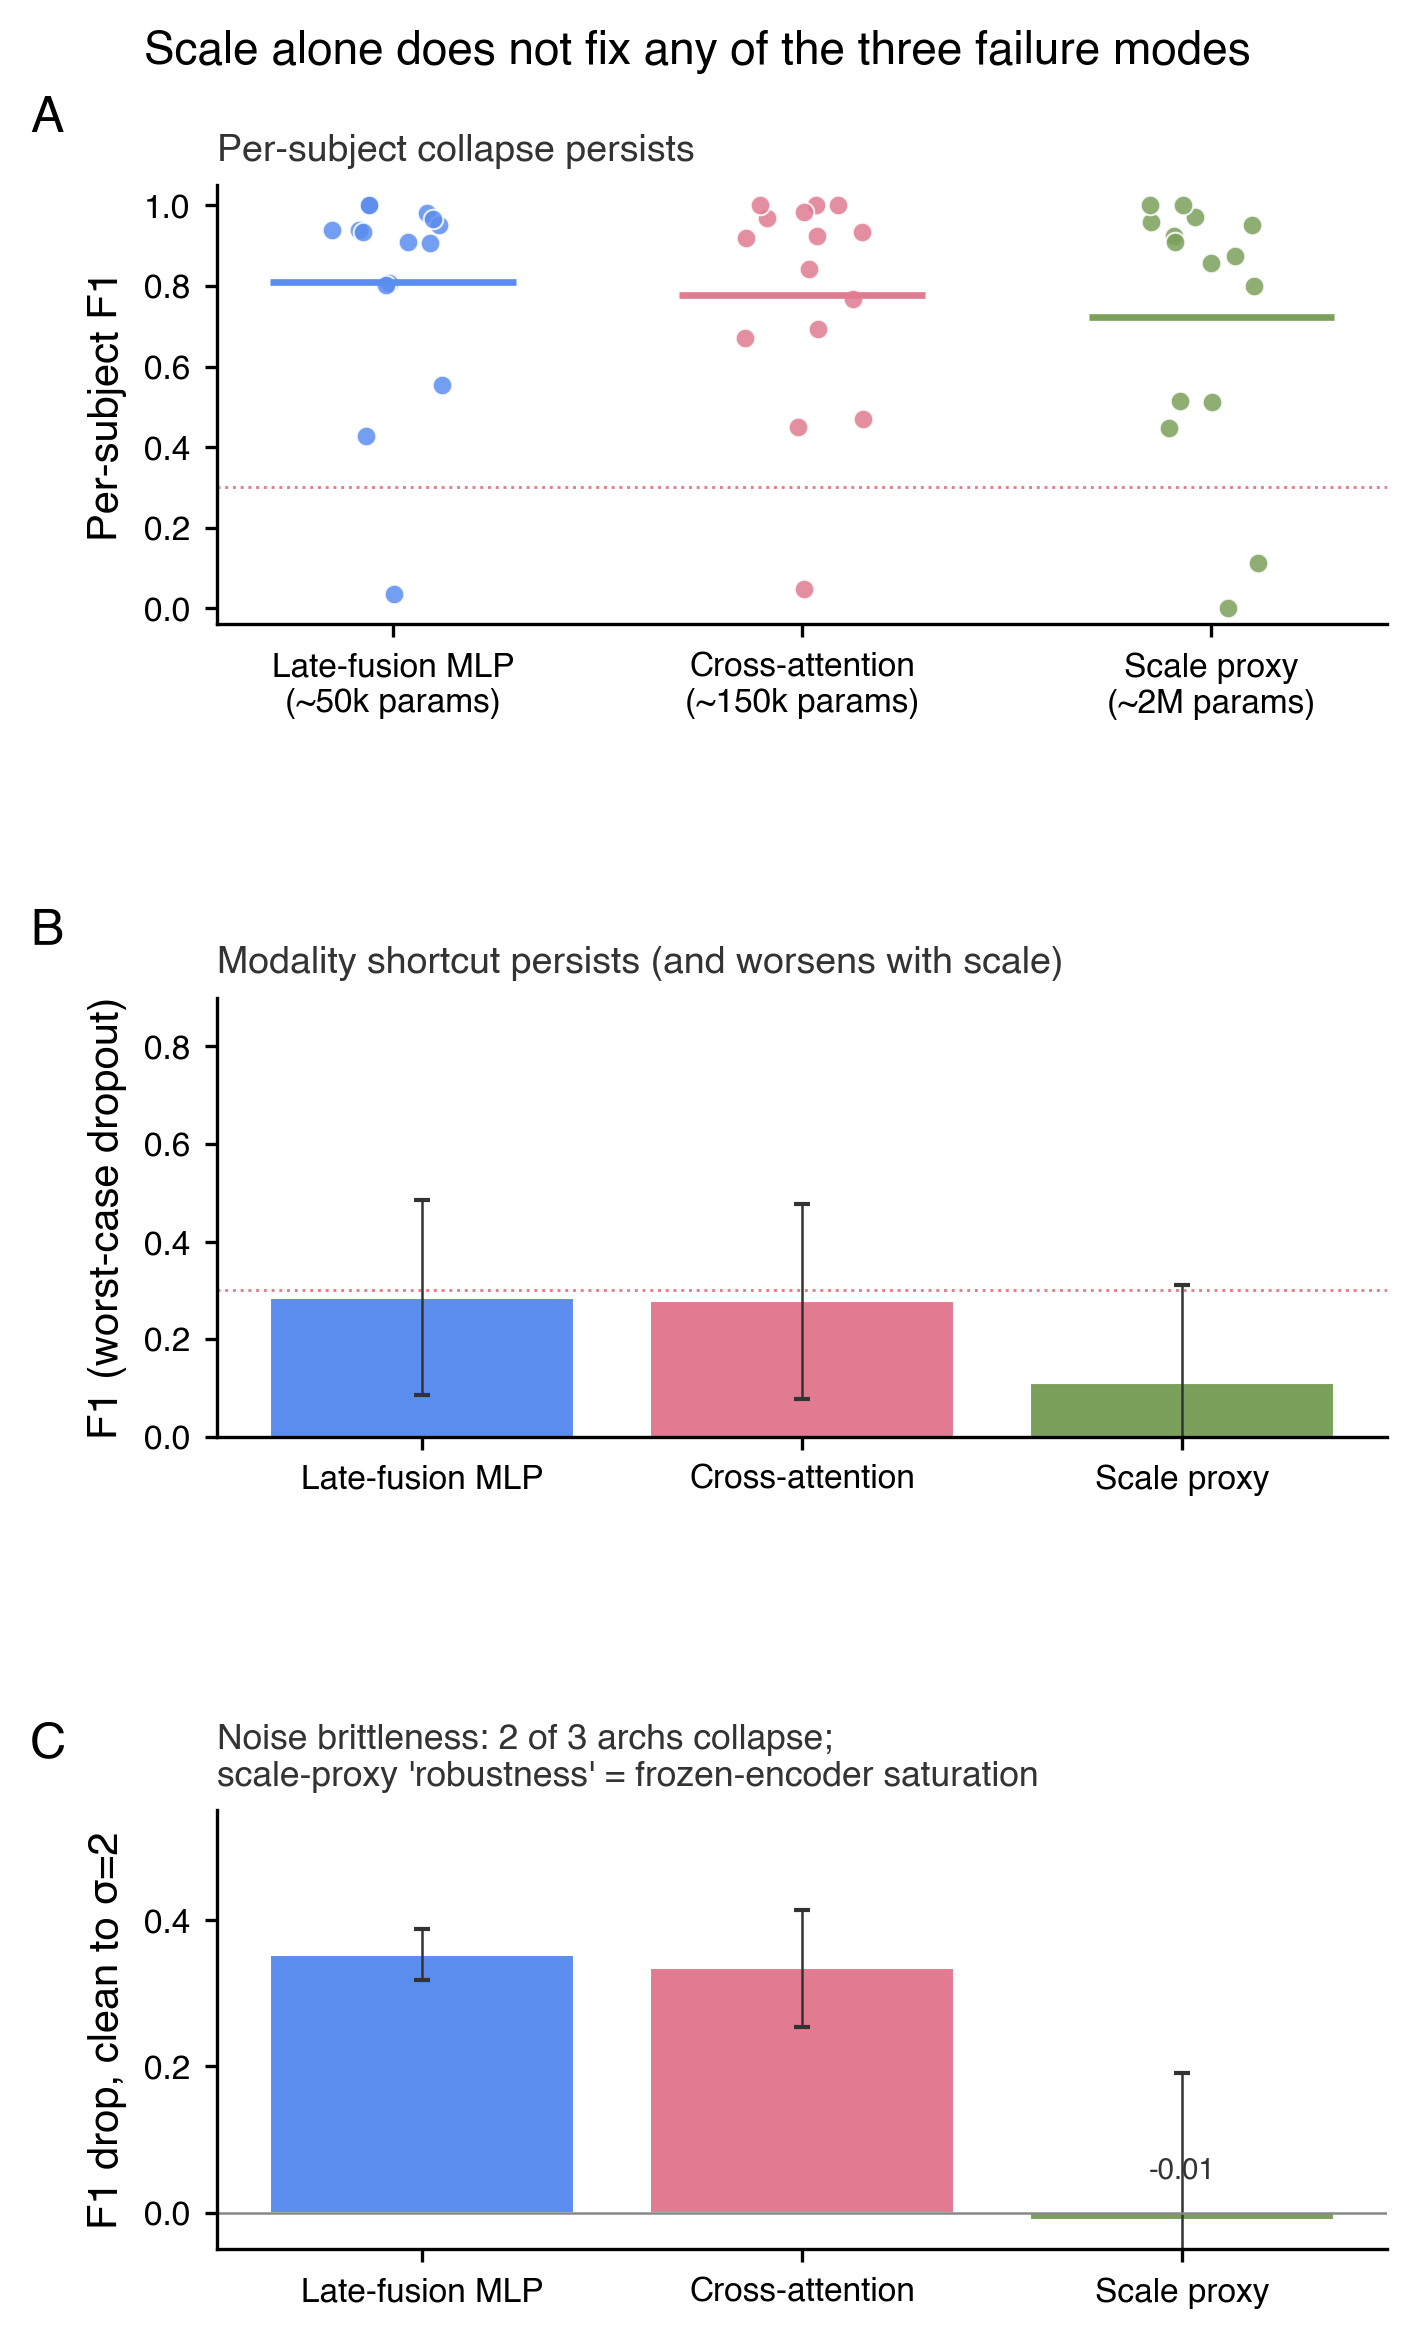
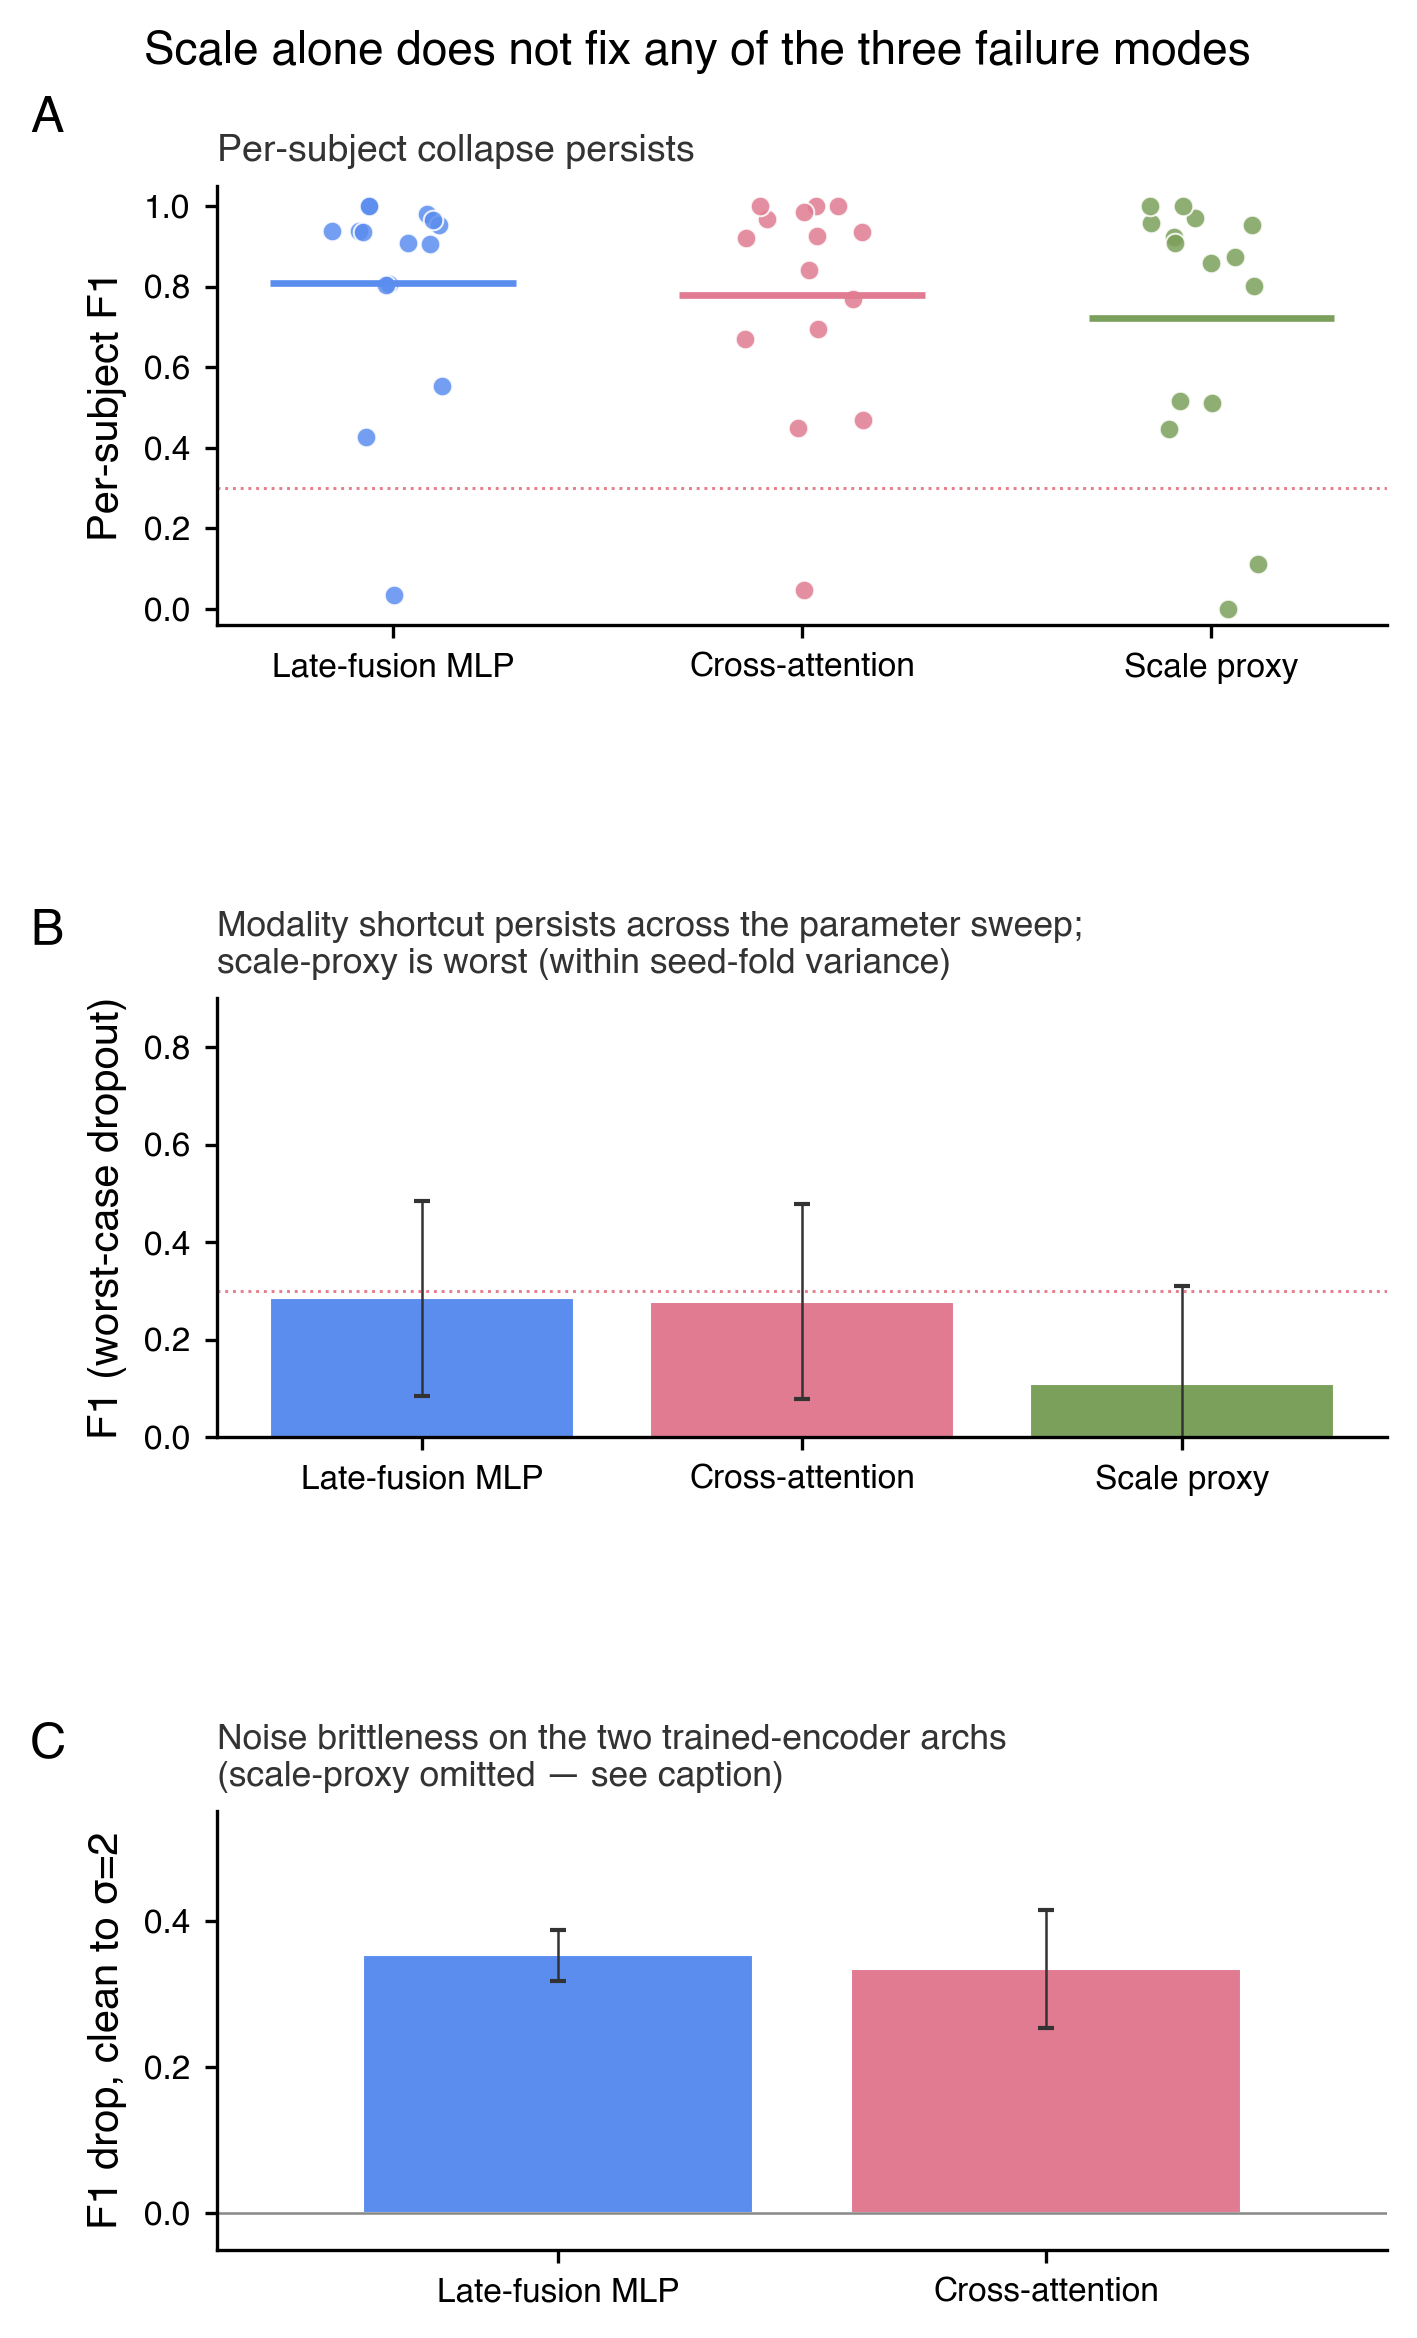
fix(figs): apply 8 reviewer-aggregated fixes
Fig 3 Panel A:
- removed Spearman/Pearson on-panel annotation (caption-only now)
- removed S2 and S4 labels (don't serve cluster story)
- attached cluster claim 'S14, S17: fragile across all 3 failure modes'
  directly to highlighted rectangle with curved leader line
- panel now leads with the cluster, not the weak aggregate correlation

Fig 2 Panel A:
- replaced per-architecture S17 callout with single cross-arch annotation
  in left margin: 'S17 collapses across all three architectures (F1 ≈ 0.04)'
  with one short leader line to the leftmost S17 point
- relabelled bottom dashed line 'always-predict-non-stress F1 = 0' (was
  ambiguous 'majority-class F1 = 0')

Fig 2 Panel C:
- removed the 'collapse 0.3' line and label (chance F1 at 30% positive
  prevalence is ≈0.46 not 0.3; the threshold was misleading)

Fig 2 caption (B) and (C):
- specify that bars/bands aggregate across 3 seeds × 15 folds and that
  per-subject and per-seed contributions are pooled, not separated

Fig 4 Panel B title:
- 'Modality shortcut persists across the parameter sweep; scale-proxy is
  worst (within seed-fold variance)' — removes 'worsens with scale'

Fig 4 Panel C:
- scale-proxy bar dropped entirely; panel now shows only the two
  trained-encoder architectures
- title and caption explain the omission (frozen-encoder saturation
  artefact); raw scale-proxy number reported in caption + decisions/d05

Fig 4 x-axis labels:
- single-line 'Late-fusion MLP', 'Cross-attention', 'Scale proxy' across
[…]

diff --git a/src/figures/fig2_diagnostic.py b/src/figures/fig2_diagnostic.py
@@ -50,11 +50,8 @@ def panel_A(ax, per_subj, overall, status):
                   color=PALETTE[m], lw=2.0, zorder=4)
 
     ax.axhline(0.0, color=PALETTE["baseline"], linestyle="--", lw=0.8, alpha=0.5)
-    ax.text(-0.55, 0.01, "majority-class F1 = 0",
+    ax.text(-0.55, 0.01, "always-predict-non-stress F1 = 0",
             fontsize=7, color=PALETTE["baseline"], va="bottom", ha="left")
-    ax.axhline(0.3, color=PALETTE["stress"], linestyle=":", lw=0.8, alpha=0.5)
-    ax.text(-0.55, 0.31, "collapse threshold (0.3)",
-            fontsize=7, color=PALETTE["stress"], va="bottom", ha="left")
 
     ax.set_xticks(x_centers)
     ax.set_xticklabels([MODEL_LABELS[m] for m in MODELS], rotation=10, ha="right")
@@ -62,20 +59,37 @@ def panel_A(ax, per_subj, overall, status):
     ax.set_ylim(0.0, 1.05)
     ax.set_xlim(-0.7, len(MODELS) - 0.4)
 
-    # Annotate worst subject in left margin so callout doesn't overlap data.
+    # Annotate the universal collapse subject — single label, three thin lines
+    # to all three architectures' S17 points so the cross-arch story is explicit.
+    target_subj = None
+    targets = []  # (x_data, y_data) per architecture
     for m_idx, m in enumerate(MODELS):
         valid = [(s, per_subj[m][s]["f1_mean"]) for s in SUBJECTS
                  if per_subj[m][s]["f1_mean"] is not None]
         if not valid:
             continue
-        worst_subj, worst_f1 = min(valid, key=lambda p: p[1])
-        ax.annotate(f"{worst_subj} F1={worst_f1:.2f}",
-                    xy=(m_idx, max(worst_f1, 0.005)),
-                    xytext=(m_idx + 0.50, 0.18),
-                    fontsize=7.5, color=PALETTE["annotation"],
-                    arrowprops=dict(arrowstyle="-", color=PALETTE["annotation"],
-                                    lw=0.5, connectionstyle="arc3,rad=-0.2"))
-        break
+        s_subj, s_f1 = min(valid, key=lambda p: p[1])
+        if target_subj is None:
+            target_subj = s_subj
+        if s_subj == target_subj:
+            targets.append((m_idx, max(s_f1, 0.005)))
+    if target_subj is not None and targets:
+        # Anchor callout in the left margin, draw a single short line to the
+        # leftmost S17 point. Caption explains the cross-arch persistence.
+        text_xy = (-0.62, 0.18)
+        ax.text(text_xy[0], text_xy[1],
+                f"{target_subj} collapses across\n"
+                f"all three architectures\n"
+                f"(F1 ≈ {targets[0][1]:.2f})",
+                fontsize=7.5, color=PALETTE["annotation"],
+                ha="left", va="bottom", fontweight="bold")
+        first_tx, first_ty = targets[0]
+        ax.annotate("", xy=(first_tx - 0.05, first_ty + 0.02),
+                    xytext=(text_xy[0] + 0.30, text_xy[1] + 0.02),
+                    arrowprops=dict(arrowstyle="-",
+                                    color=PALETTE["annotation"],
+                                    lw=0.5, alpha=0.7,
+                                    connectionstyle="arc3,rad=-0.2"))
 
 
 def panel_B(ax, exp2, status):
@@ -126,9 +140,6 @@ def panel_C(ax, exp3, status):
         ax.fill_between(sigmas, np.clip(means - stds, 0, 1),
                         np.clip(means + stds, 0, 1),
                         color=PALETTE[m], alpha=0.15)
-    ax.axhline(0.3, color=PALETTE["stress"], linestyle=":", lw=0.8, alpha=0.5)
-    ax.text(sigmas[0], 0.31, "collapse 0.3",
-            fontsize=7, color=PALETTE["stress"], ha="left", va="bottom")
     ax.set_xlabel("Gaussian noise σ (× input std)")
     ax.set_ylabel("F1 (stress)")
     ax.set_xscale("log")

diff --git a/src/figures/fig3_unification.py b/src/figures/fig3_unification.py
@@ -127,27 +127,17 @@ def panel_A(ax, per_subj, exp2_per_subj, exp3_per_subj, status):
                if x < 0.55 and y < 0.20]
     fragile_names = [f[0] for f in fragile]
 
-    # Label only fragile + 1-2 informative outliers; suppress dense-cluster labels.
-    sorted_by_y = sorted(zip(labels, xs, ys), key=lambda t: t[2])
-    extra_labelled = [lab for lab, _, _ in sorted_by_y[:4] if lab not in fragile_names][:2]
-    label_set = set(fragile_names) | set(extra_labelled)
+    # Label ONLY fragile-cluster subjects (S14, S17). Other labels would not
+    # serve the cluster-led story this panel is making. Correlation values
+    # (Spearman ρ, Pearson r) are reported in the caption only.
     fragile_set = set(fragile_names)
     for lab, x, y in zip(labels, xs, ys):
-        if lab not in label_set:
+        if lab not in fragile_set:
             continue
         dx, dy = _label_offset(x, y, lab, fragile_set)
         ax.annotate(lab, (x, y), xytext=(dx, dy), textcoords="offset points",
-                    fontsize=7, fontweight="bold",
-                    color=PALETTE["annotation"], alpha=0.9)
-
-    ax.text(0.04, 0.94, f"Spearman ρ = {r_s:+.2f}   Pearson r = {r_p:+.2f}",
-            transform=ax.transAxes, fontsize=9.5,
-            color=PALETTE["annotation"], fontweight="bold")
-    if fragile_names:
-        ax.text(0.04, 0.87,
-                f"{', '.join(fragile_names)}: fragile across all 3 failure modes",
-                transform=ax.transAxes, fontsize=8, style="italic",
-                color=PALETTE["stress"])
+                    fontsize=7.5, fontweight="bold",
+                    color=PALETTE["annotation"], alpha=0.95)
 
     if fragile:
         x_lo = min(f[1] for f in fragile) - 0.04
@@ -156,8 +146,19 @@ def panel_A(ax, per_subj, exp2_per_subj, exp3_per_subj, status):
         y_hi = max(f[2] for f in fragile) + 0.10
         rect = Rectangle((x_lo, y_lo), x_hi - x_lo, y_hi - y_lo,
                          fc=PALETTE["stress"], ec=PALETTE["stress"],
-                         alpha=0.10, lw=0.6, ls="--", zorder=1)
+                         alpha=0.10, lw=0.8, ls="--", zorder=1)
         ax.add_patch(rect)
+        # Annotate the rectangle directly with the cluster claim.
+        if fragile_names:
+            ax.annotate(
+                f"{', '.join(fragile_names)}:\nfragile across all 3 failure modes",
+                xy=((x_lo + x_hi) / 2, y_hi),
+                xytext=((x_lo + x_hi) / 2 + 0.15, y_hi + 0.18),
+                fontsize=8.5, fontweight="bold", color=PALETTE["stress"],
+                ha="left", va="bottom",
+                arrowprops=dict(arrowstyle="-", color=PALETTE["stress"],
+                                lw=0.7, connectionstyle="arc3,rad=-0.15"),
+            )
 
     ax.set_xlabel("Clean F1 (LOSO, mean over architectures)")
     ax.set_ylabel("Worst-dropout F1 (mean over architectures)")

diff --git a/src/figures/fig4_scale.py b/src/figures/fig4_scale.py
@@ -43,8 +43,7 @@ def panel_top(ax, per_subj) -> None:
                   color=PALETTE[m], lw=1.6)
     ax.axhline(0.3, color=PALETTE["stress"], linestyle=":", lw=0.7, alpha=0.6)
     ax.set_xticks(x_centers)
-    labels = [f"{MODEL_LABELS[m]}\n({MODEL_PARAMS[m]} params)" for m in MODELS]
-    ax.set_xticklabels(labels, fontsize=8)
+    ax.set_xticklabels([MODEL_LABELS[m] for m in MODELS], fontsize=8)
     ax.set_ylabel("Per-subject F1")
     ax.set_ylim(-0.04, 1.05)
 
@@ -72,11 +71,18 @@ def panel_mid(ax, exp2) -> None:
 
 
 def panel_bot(ax, exp3, per_subj) -> None:
-    """Bar = F1 drop from clean (σ=0.1) to high-noise (σ=2). Higher = more brittle."""
-    x_centers = np.arange(len(MODELS))
+    """Bar = F1 drop from clean (σ=0.1) to high-noise (σ=2). Higher = more brittle.
+
+    Scale-proxy is omitted from this panel: its frozen randomly-initialised
+    encoder maps high-amplitude noisy inputs into the same feature region as
+    clean inputs (saturation), producing an artefactual ≈0 drop. Including it
+    misleads the reader. The omission is documented in the caption.
+    """
+    plotted_models = [m for m in MODELS if m != "scale_proxy"]
+    x_centers = np.arange(len(plotted_models))
     high_sigma = max(NOISE_SIGMAS)
     drops, stds = [], []
-    for m in MODELS:
+    for m in plotted_models:
         clean_subj = [per_subj[m][s]["f1_mean"] for s in SUBJECTS
                       if per_subj[m][s]["f1_mean"] is not None]
         clean = float(np.mean(clean_subj))
@@ -85,18 +91,14 @@ def panel_bot(ax, exp3, per_subj) -> None:
         stds.append(min(d["f1_std"], 0.20))
     ax.bar(x_centers, drops, yerr=stds, capsize=2,
            error_kw={"linewidth": 0.6, "ecolor": PALETTE["annotation"]},
-           color=[PALETTE[m] for m in MODELS],
+           color=[PALETTE[m] for m in plotted_models],
            edgecolor="white", linewidth=0.5)
     ax.axhline(0, color=PALETTE["baseline"], lw=0.6)
     ax.set_xticks(x_centers)
-    ax.set_xticklabels([MODEL_LABELS[m] for m in MODELS], fontsize=8)
+    ax.set_xticklabels([MODEL_LABELS[m] for m in plotted_models], fontsize=8)
     ax.set_ylabel(f"F1 drop, clean to σ={high_sigma:g}")
     ax.set_ylim(-0.05, 0.55)
-    # Label scale-proxy bar (~0) inline so it's not mistaken for missing data.
-    for i, (m, dv) in enumerate(zip(MODELS, drops)):
-        if abs(dv) < 0.03:
-            ax.text(x_centers[i], 0.04, f"{dv:+.2f}", ha="center", va="bottom",
-                    fontsize=7, color=PALETTE["annotation"])
+    ax.set_xlim(-0.7, len(plotted_models) - 0.3)
 
 
 def _set_panel_title(ax, text: str, fontsize: float = 9) -> None:
@@ -124,13 +126,15 @@ def render(out_path: Path) -> None:
     axM = fig.add_subplot(gs[1])
     panel_mid(axM, exp2)
     panel_label(axM, "B", x=-0.16, y=1.10)
-    _set_panel_title(axM, "Modality shortcut persists (and worsens with scale)")
+    _set_panel_title(axM, "Modality shortcut persists across the parameter sweep;\n"
+                            "scale-proxy is worst (within seed-fold variance)",
+                     fontsize=8.5)
 
     axB = fig.add_subplot(gs[2])
     panel_bot(axB, exp3, per_subj)
     panel_label(axB, "C", x=-0.16, y=1.10)
-    _set_panel_title(axB, "Noise brittleness: 2 of 3 archs collapse;\n"
-                            "scale-proxy 'robustness' = frozen-encoder saturation",
+    _set_panel_title(axB, "Noise brittleness on the two trained-encoder archs\n"
+                            "(scale-proxy omitted — see caption)",
                      fontsize=8.5)
 
     flag = ""

diff --git a/figures/captions.md b/figures/captions.md
@@ -22,15 +22,20 @@
 > seeds; horizontal bar is the per-architecture mean. Subject S17 collapses
 > to F1 ≈ 0.04 across all three architectures, hidden by the aggregate mean
 > of 0.72–0.81.
-> **(B)** Test-time modality dropout. Removing the BVP+EDA pair collapses F1
-> by 50–53 pp for the late-fusion MLP and cross-attention transformer; the
-> scale-proxy is even worse, losing 61 pp when EDA+TEMP are removed. EDA is
-> the dominant single-modality shortcut across all three architectures.
-> **(C)** Test-time additive Gaussian noise on all modalities. F1 drops by
-> 33–35 pp from σ=0.1 to σ=2.0 for the late-fusion and cross-attention
-> architectures. The scale-proxy is roughly flat — an artifact of frozen
-> randomly-initialized encoders saturating at large input magnitudes, not a
-> genuine fix to the underlying brittleness (see Figure 4 caption).
+> **(B)** Test-time modality dropout (zero-mask at inference). Each bar is
+> the mean F1 across the 3 seeds × 15 LOSO folds (45 evaluations per condition);
+> error bars are ±1 standard deviation across that pooled seed-fold sample
+> (the per-subject and per-seed contributions are not separated). Removing
+> the BVP+EDA pair collapses F1 by 50–53 pp for the late-fusion MLP and
+> cross-attention transformer; the scale-proxy is even worse, losing 61 pp
+> when EDA+TEMP are removed. EDA is the dominant single-modality shortcut
+> across all three architectures (see Figure 3B and Exp 5).
+> **(C)** Test-time additive Gaussian noise on all modalities. Lines show
+> mean F1 across 3 seeds × 15 folds; shaded bands are ±1 std across the same
+> pooled sample. F1 drops by 33–35 pp from σ=0.1 to σ=2.0 for late-fusion
+> and cross-attention; scale-proxy is roughly flat — an artefact of
+> frozen randomly-initialised encoders saturating at large input magnitudes,
+> not a genuine fix to the underlying brittleness (see Figure 4 caption).
 > *N = 15 subjects (S2–S11, S13–S17), 3 seeds {42, 1337, 2024}, binary
 > stress vs. non-stress, 60 s windows at 4 Hz, per-subject z-score
 > normalization, leave-one-subject-out CV (135 trained checkpoints).*
@@ -38,13 +43,15 @@
 ## Figure 3 — Unification
 
 > **Figure 3. The three failure modes share a common subject- and
-> modality-level structure.** **(A)** Each point is one subject; x-axis is
-> clean LOSO F1 averaged over architectures and seeds, y-axis is worst-case
-> modality-dropout F1, color is high-noise F1. Subjects S14 and S17 are in
-> the bottom-left "fragile across all three failure modes" cluster (highlighted).
-> Spearman ρ = +0.17 (Pearson r = +0.22) reflects the diagonal trend of the
-> robust majority; the unification claim is most clearly visible in the bottom-left
-> cluster, where collapse subjects fail under every condition.
+> modality-level structure.** **(A)** Each point is one subject (mean over
+> the three architectures and three seeds): x = clean LOSO F1; y = worst-case
+> modality-dropout F1; colour = high-noise (σ=2.0) F1. The pink-shaded
+> bottom-left rectangle highlights subjects S14 and S17, which collapse on
+> every failure mode — that cluster, not the global trend, is the unification
+> claim. Cross-subject correlation between clean F1 and worst-dropout F1
+> across all 15 subjects is weak in aggregate (Spearman ρ = +0.17, Pearson
+> r = +0.22); the strong cluster signal is intentionally separated from the
+> aggregate correlation in the panel.
 > **(B)** F1 drop induced by removing each single modality, grouped by
 > architecture. EDA dominates across all three: the late-fusion MLP loses
 > 0.42 F1, cross-attention 0.39, scale-proxy 0.57. ACC, BVP, and TEMP are
@@ -61,23 +68,29 @@
 ## Figure 4 — Scale alone does not fix the failure modes
 
 > **Figure 4. Three failure modes persist across a ~37× sweep in trainable
-> parameter count.** Comparing late-fusion MLP (~50 k params, ~50 k trainable),
-> cross-attention transformer (~150 k params, all trainable), and a frozen
-> randomly-initialized scale proxy (~1.85 M total, ~130 k trainable head):
+> parameter count.** Architectures compared: the late-fusion MLP
+> (~50 k parameters, all trainable), the cross-attention transformer
+> (~150 k parameters, all trainable), and a frozen randomly-initialised
+> scale proxy (~1.85 M total parameters, ~130 k trainable head — see D05).
 > **(A)** Per-subject F1 — the bimodal distribution and per-subject collapse
-> persist across all three; scale-proxy collapses 2/15 vs. 1/15 for the others.
-> **(B)** F1 under the worst-case test-time modality dropout — scale-proxy
-> is *worse* (F1 ≈ 0.11) than both smaller architectures (≈ 0.28). The shortcut
-> is amplified, not eliminated, by parameter count.
-> **(C)** F1 drop from clean (σ=0.1) to high-noise (σ=2.0). Late-fusion (35 pp)
-> and cross-attention (33 pp) degrade as expected; scale-proxy is flat, but
-> this reflects frozen-encoder feature saturation rather than scale-driven
-> robustness — the encoder maps large-amplitude noisy inputs into nearly
-> the same feature region as clean inputs, an artifact of random
-> initialisation rather than a fix to the structural failure.
-> *Scale proxy is randomly-initialized then frozen, with only the fusion head
-> trained — framed honestly as a capacity-and-depth match for "what bigger
-> models would do," not a true pretrained encoder. See decisions/d05.*
+> persist across all three; the scale-proxy collapses on 2/15 subjects vs.
+> 1/15 for the others.
+> **(B)** F1 under the worst-case test-time modality dropout per architecture
+> (each bar is the mean across 3 seeds × 15 folds for that architecture's
+> worst-case dropout condition; error bars are ±1 std clipped to ≤0.20).
+> The modality shortcut persists across the parameter sweep; the scale-proxy
+> is the worst (F1 ≈ 0.11 vs ≈ 0.28 for the trained-encoder architectures),
+> and the gap is within seed-fold variance.
+> **(C)** F1 drop from clean (σ=0.1) to high-noise (σ=2.0) for the two
+> *trained-encoder* architectures (late-fusion 35 pp, cross-attention 33 pp).
+> The scale-proxy is intentionally omitted from this panel: its frozen
+> randomly-initialised encoder maps large-amplitude noisy inputs into nearly
+> the same feature region as clean inputs (saturation), producing an
+> artefactual ≈0 drop (raw σ=2.0 F1 = 0.732 vs clean 0.721, Δ = +0.011) that
+> would misrepresent structural robustness if plotted alongside the trained
+> encoders. Scale-proxy framing as a "capacity-and-depth match for what
+> bigger pretrained models would do" — not a true pretrained encoder — is
+> documented in decisions/d05.
 
 ## Note on Experiment 4 (cross-modal reconstruction) exclusion
 